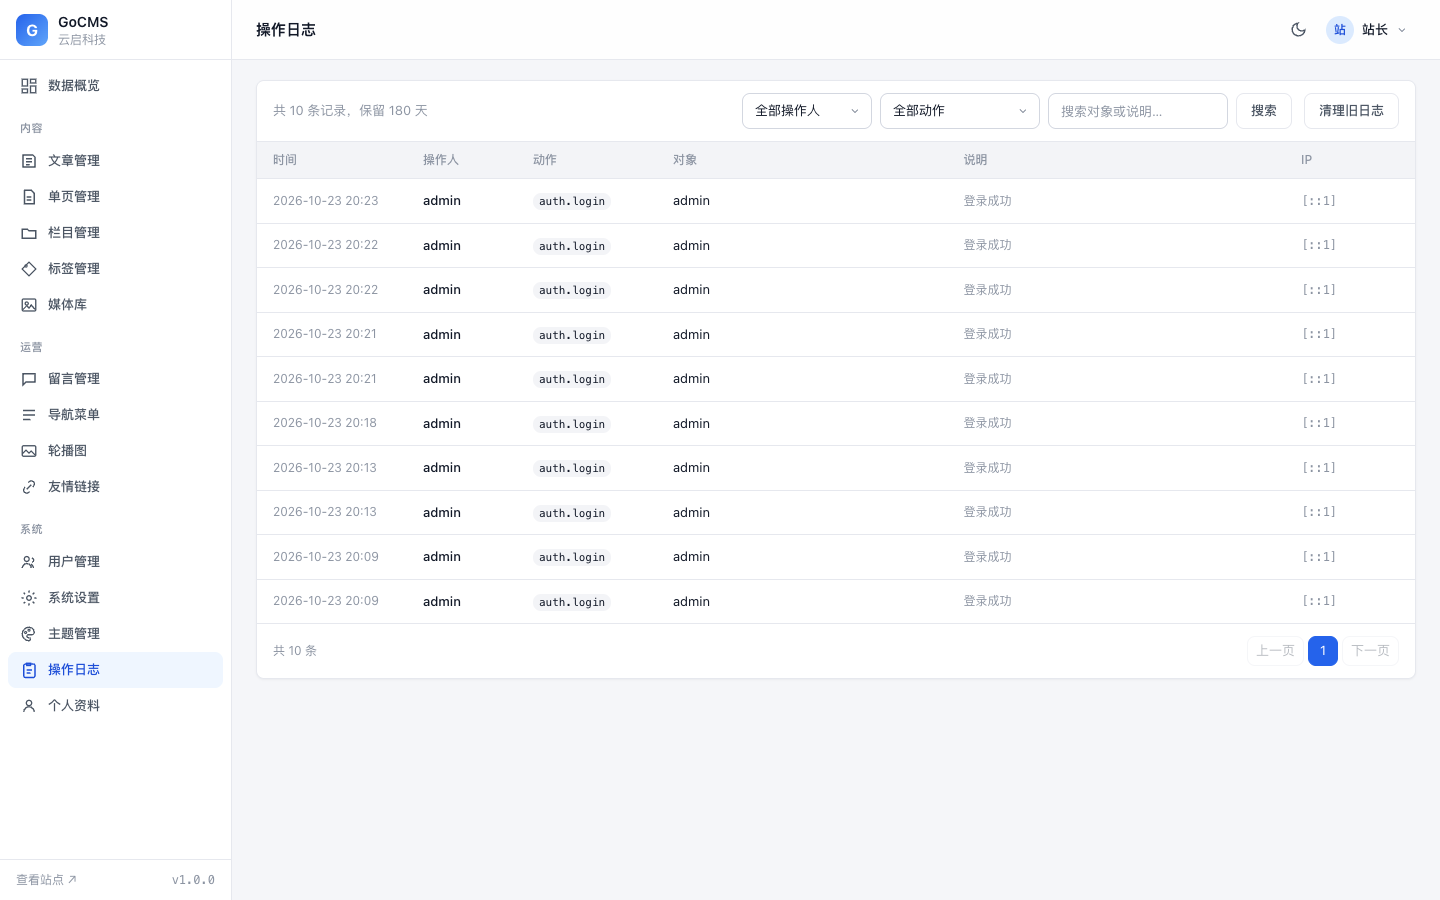
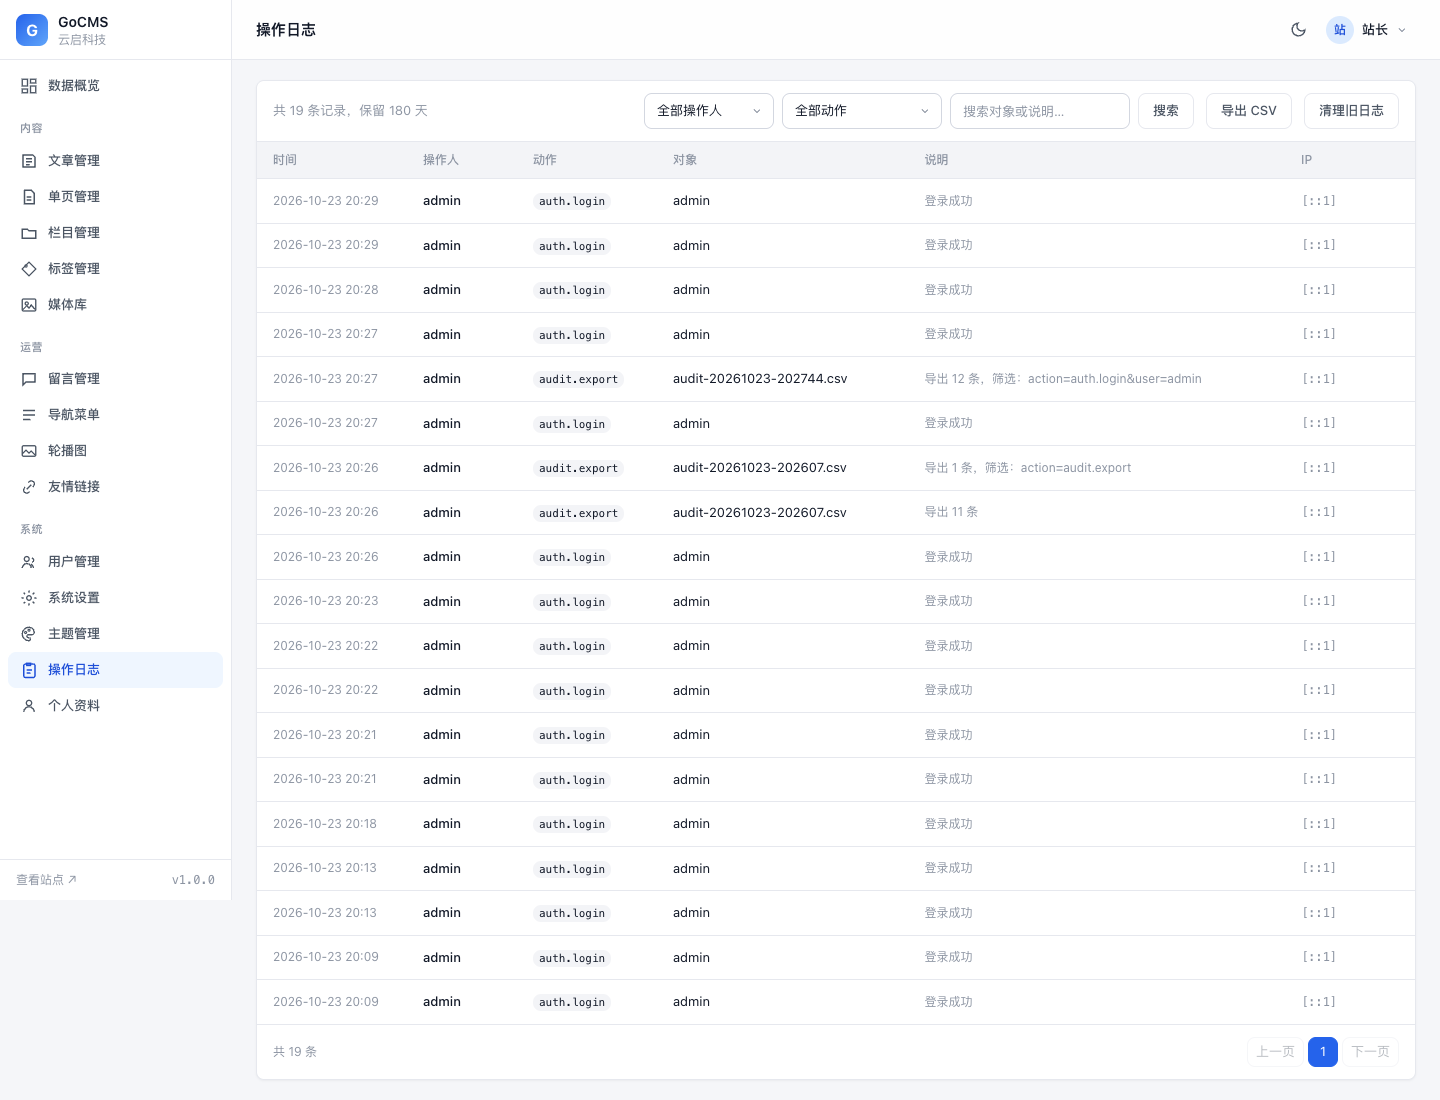
feat: 操作日志支持导出 CSV，并纠正 sitemap/rss 的审计误判
## 导出 CSV

交接场景需要把「谁在什么时候改了什么」交给接手人，或供外部审计。

- 路由 GET /{admin}/audits/export.csv，authAdmin 保护
- 沿用页面筛选条件，导出的就是眼前那一批
- 上限 10000 条，超出在日志里标注已截断
- 带 UTF-8 BOM，否则 Excel 打开中文乱码
- Cache-Control: no-store，敏感记录不落中间缓存
- 导出动作本身也记一条 audit.export

## 两个坑

1. CSV 注入：Excel 会把 = + - @ 开头的单元格当公式执行，
   而审计字段含用户可控内容（用户名、标题）。加 csvSafe() 前缀单引号，9 种输入有单测。

2. 模板二次转义：href="...?{{.Options.qs}}" 被 html/template 转成
   ?action%3dauth.login%26user%3dadmin，浏览器当成一个参数，筛选静默失效。
   改为 handler 里拼好完整 URL + template.URL() 声明安全。

## 纠正

上一轮审计报告写着「Sitemap/RSS 无 LIMIT」，核实后是错的：
Sitemap PerPage=2000、RSS PerPage=30，都有上限。
真实问题是 2000 篇之后静默截断（需拆 sitemap index），
当前量级下属过度设计，暂不做，已记入 docs/02 以免下次又被当成待修项。

测试：新增 TestCSVSafe。build / vet / gofmt 干净，6 个包全过。

diff --git a/web/admin/templates/audit_list.html b/web/admin/templates/audit_list.html
@@ -23,6 +23,9 @@
       <button class="btn btn-ghost" type="submit">搜索</button>
     </form>
 
+    <a class="btn btn-ghost" href="{{.Options.export_url}}"
+       title="按当前筛选条件导出，最多 10000 条">导出 CSV</a>
+
     <form method="post" action="{{$.AdminPath}}/audits/purge"
           data-confirm="确认清理 180 天前的日志？该操作不可恢复。">
       <input type="hidden" name="csrf_token" value="{{.CSRF}}">

diff --git a/internal/handler/admin_audit.go b/internal/handler/admin_audit.go
@@ -1,9 +1,12 @@
 package handler
 
 import (
+	"encoding/csv"
+	"html/template"
 	"net/http"
 	"net/url"
 	"strconv"
+	"time"
 
 	"github.com/example/gocms/internal/repository"
 	"github.com/example/gocms/internal/utils"
@@ -39,12 +42,22 @@ func (h *Handler) AuditList(w http.ResponseWriter, r *http.Request) {
 	d.Query = f.Keyword
 	d.Status = f.Action
 	d.Pagination = utils.NewPagination(page, perPage, total, base)
+	// 导出链接在这里拼好。
+	// 不能把查询串直接塞进模板的 href：html/template 会对 URL 上下文做转义，
+	// "&" 变成 %26、"=" 变成 %3D，服务端收到的就不是多个参数了，筛选会失效。
+	// 用 template.URL 声明「这已经是安全的完整 URL」，模板才不会二次转义。
+	exportURL := h.adminPath("audits", "export.csv")
+	if qs := filterQuery(r); qs != "" {
+		exportURL += "?" + qs
+	}
+
 	d.Options = map[string]any{
-		"user":    f.Username,
-		"action":  f.Action,
-		"actions": h.repo.Audit.DistinctActions(),
-		"users":   h.repo.Audit.DistinctUsers(),
-		"total":   total,
+		"user":       f.Username,
+		"action":     f.Action,
+		"actions":    h.repo.Audit.DistinctActions(),
+		"users":      h.repo.Audit.DistinctUsers(),
+		"total":      total,
+		"export_url": template.URL(exportURL),
 	}
 	h.renderAdmin(w, r, "audit_list", d)
 }
@@ -63,6 +76,75 @@ func filterQuery(r *http.Request) string {
 // AuditPurge 清理 180 天前的日志
 func (h *Handler) AuditPurge(w http.ResponseWriter, r *http.Request) {
 	n := h.PurgeOldAuditLogs()
-	h.audit(r, "audit.purge", "180 天前", "清理 "+strconv.FormatInt(n, 10)+" 条")
+	h.audit(r, AuditAuditPurge, "180 天前", "清理 "+strconv.FormatInt(n, 10)+" 条")
 	h.redirect(w, r, "/admin/audits", "success", "已清理 "+strconv.FormatInt(n, 10)+" 条历史日志")
+}
+
+// auditExportMax 单次导出上限。
+// 日志表可能有几十万行，不设上限会一次性拉爆内存；超出的请先用筛选条件缩小范围。
+const auditExportMax = 10000
+
+// AuditExportCSV 导出当前筛选结果为 CSV。
+//
+// 交接场景最需要：把「谁在什么时候改了什么」交给接手的人，或者供外部审计。
+// 导出沿用页面上的筛选条件，导出的就是用户眼前看到的那一批。
+func (h *Handler) AuditExportCSV(w http.ResponseWriter, r *http.Request) {
+	f := &repository.AuditFilter{
+		Username: utils.QueryStr(r, "user"),
+		Action:   utils.QueryStr(r, "action"),
+		Keyword:  utils.QueryStr(r, "q"),
+		Page:     1,
+		PerPage:  auditExportMax,
+	}
+	list, total, err := h.repo.Audit.List(f)
+	if err != nil {
+		h.redirect(w, r, "/admin/audits", "error", "导出失败："+err.Error())
+		return
+	}
+
+	name := "audit-" + time.Now().Format("20060102-150405") + ".csv"
+	w.Header().Set("Content-Type", "text/csv; charset=utf-8")
+	w.Header().Set("Content-Disposition", `attachment; filename="`+name+`"`)
+	// 导出内容是敏感操作记录，禁止任何中间层缓存
+	w.Header().Set("Cache-Control", "no-store")
+	// Excel 只有看到 BOM 才认 UTF-8，否则中文全是乱码
+	_, _ = w.Write([]byte("\xef\xbb\xbf"))
+
+	cw := csv.NewWriter(w)
+	_ = cw.Write([]string{"时间", "操作人", "动作", "对象", "说明", "IP"})
+	for _, l := range list {
+		_ = cw.Write([]string{
+			l.CreatedAt.Format("2006-01-02 15:04:05"),
+			csvSafe(l.Username),
+			csvSafe(l.Action),
+			csvSafe(l.Target),
+			csvSafe(l.Detail),
+			csvSafe(l.IP),
+		})
+	}
+	cw.Flush()
+
+	detail := "导出 " + strconv.Itoa(len(list)) + " 条"
+	if total > len(list) {
+		detail += "（共 " + strconv.Itoa(total) + " 条，已截断到上限）"
+	}
+	if q := filterQuery(r); q != "" {
+		detail += "，筛选：" + q
+	}
+	h.audit(r, AuditAuditExport, name, detail)
+}
+
+// csvSafe 防 CSV 注入。
+//
+// Excel / WPS 会把以 = + - @ 开头的单元格当公式执行，而审计字段里有
+// 用户可控内容（用户名、文章标题）。前缀单引号可让它按纯文本显示。
+func csvSafe(s string) string {
+	if s == "" {
+		return s
+	}
+	switch s[0] {
+	case '=', '+', '-', '@', '\t', '\r':
+		return "'" + s
+	}
+	return s
 }

diff --git a/internal/handler/audit_test.go b/internal/handler/audit_test.go
@@ -1,0 +1,24 @@
+package handler
+
+import "testing"
+
+// 导出 CSV 时，以 = + - @ 开头的单元格会被 Excel / WPS 当公式执行。
+// 审计字段里有用户可控内容（用户名、文章标题），必须转义。
+func TestCSVSafe(t *testing.T) {
+	cases := map[string]string{
+		"正常内容":      "正常内容",
+		"":          "",
+		"article":   "article",
+		"=1+1":      "'=1+1",
+		"+86":       "'+86",
+		"-2":        "'-2",
+		"@SUM(A1)":  "'@SUM(A1)",
+		"=cmd|'/c'": "'=cmd|'/c'",
+		"中文 = 号":    "中文 = 号", // 首字符不是危险符号，不需处理
+	}
+	for in, want := range cases {
+		if got := csvSafe(in); got != want {
+			t.Errorf("csvSafe(%q) = %q，期望 %q", in, got, want)
+		}
+	}
+}

diff --git a/internal/router/router.go b/internal/router/router.go
@@ -136,6 +136,7 @@ func Build(cfg *config.Config, repo *repository.Repo, h *handler.Handler, ap *ad
 
 	// 操作日志（仅 admin）
 	mux.Handle("GET "+base+"/audits", authAdmin(h.AuditList))
+	mux.Handle("GET "+base+"/audits/export.csv", authAdmin(h.AuditExportCSV))
 	mux.Handle("POST "+base+"/audits/purge", authAdmin(h.AuditPurge))
 
 	// ================= 静态资源 =================

diff --git a/internal/handler/audit.go b/internal/handler/audit.go
@@ -27,6 +27,10 @@ const (
 	AuditReauthOK   = "settings.reauth_ok"
 	AuditReauthFail = "settings.reauth_fail"
 
+	// 日志自身的管理动作
+	AuditAuditExport = "audit.export"
+	AuditAuditPurge  = "audit.purge"
+
 	AuditPostCreate = "post.create"
 	AuditPostUpdate = "post.update"
 	AuditPostDelete = "post.delete"

diff --git a/docs/02-实测验证记录.md b/docs/02-实测验证记录.md
@@ -653,3 +653,73 @@ ok  internal/repository     (5 个用例，无 DSN 时自动 Skip)
 - 6 个包测试全过（新增 viewcount 9 个、middleware 3 个、repository 1 个）
 - 前台 10 条 + 后台 16 个页面全 200
 - UI 审计 22 页全绿、控制台错误 0
+
+---
+
+## 十五、v1.2.2 审计日志导出 + 一处审计误判的纠正
+
+### 15.1 先纠正上一轮的错误结论
+
+v1.2 审计报告里我写过「Sitemap/RSS 无 LIMIT」。**这是错的**，核实后：
+
+| 位置 | 实际代码 | 结论 |
+| --- | --- | --- |
+| `Sitemap` | `PostFilter{Page: 1, PerPage: 2000}` | 有上限 |
+| `RSS` | `PostFilter{Page: 1, PerPage: 30}` | 有上限 |
+
+真实问题不是「无上限」，而是 **2000 篇之后静默截断**：文章过万时，后来发布的文章
+不会出现在 sitemap 里，且没有任何提示。正确做法是拆 sitemap index
+（`sitemap.xml` 指向 `sitemap-1.xml`…，每份 ≤ 5 万 URL）。
+
+考虑到当前站点几百篇量级，这属于过度设计，**暂不做**，记在这里以免下次又被当成「已发现未修复」。
+
+### 15.2 审计日志导出 CSV
+
+交接场景最需要：把「谁在什么时候改了什么」交给接手人，或供外部审计。
+
+- 路由 `GET /{admin}/audits/export.csv`，`authAdmin` 保护
+- 沿用页面筛选条件（操作人 / 动作 / 关键字），导出的就是眼前那一批
+- 上限 10000 条，超出部分在日志里标注「已截断」
+- 带 UTF-8 BOM，否则 Excel 打开中文全乱码
+- 响应头 `Cache-Control: no-store`（敏感数据不落中间缓存）
+- 导出动作本身也记一条 `audit.export`
+
+实测：
+
+```
+HTTP/1.1 200 OK
+Content-Type: text/csv; charset=utf-8
+Content-Disposition: attachment; filename="audit-20261023-202607.csv"
+Cache-Control: no-store
+
+BOM: ef bb bf
+时间,操作人,动作,对象,说明,IP
+2026-10-23 20:26:07,admin,auth.login,admin,登录成功,[::1]
+```
+
+### 15.3 两个实现上的坑
+
+**坑 1：CSV 注入**
+
+Excel / WPS 会把以 `=` `+` `-` `@` 开头的单元格当公式执行。审计字段里有用户可控内容
+（用户名、文章标题），所以加 `csvSafe()` 前缀单引号。有单测覆盖 9 种输入。
+
+**坑 2：模板把所有参数 URL 转义了**
+
+第一版模板写成 `href=".../export.csv?{{.Options.qs}}"`，结果生成：
+
+```
+export.csv?action%3dauth.login%26user%3dadmin
+```
+
+`html/template` 在 URL 上下文会自动转义，`&` → `%26`、`=` → `%3D`。
+浏览器把整串当成**一个**参数值，服务端解析不到 user / action，筛选静默失效。
+
+修法：handler 里拼好完整 URL，用 `template.URL(...)` 声明「已是安全 URL」，模板不再二次转义。
+实测链接变成 `?action=auth.login&amp;user=admin`（`&amp;` 是 HTML 实体，浏览器解析回 `&`），筛选正常生效。
+
+### 15.4 回归
+
+- 全量测试 6 个包全过（新增 `TestCSVSafe`）
+- 前台 10 条 + 后台 16 个页面 200
+- UI 审计 22 页全绿、控制台错误 0（导出按钮位置正常）

diff --git a/README.md b/README.md
@@ -131,6 +131,7 @@ gocms/
 - **操作日志**：登录、发文、改设置、删除等写操作自动落库，可按操作人/动作/关键字筛选，保留 180 天
 - **SEO**：每页 title/keywords/description/canonical/OG/Twitter Card、`sitemap.xml`、`robots.txt`、`rss.xml`
 - **统计**：后台概览卡片 + `/admin/stats.json`
+- **操作审计**：登录/发文/改设置/删除等写操作自动落库，支持按人/动作/关键字筛选，可导出 CSV（交接或外部审计用）
 
 ### 前台主题自带
 
